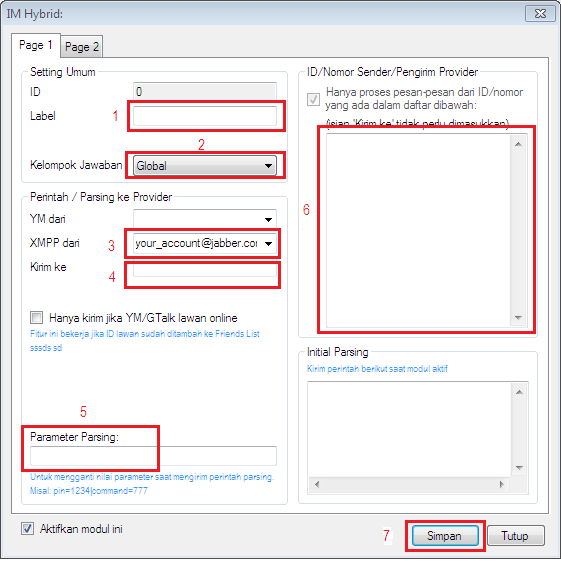
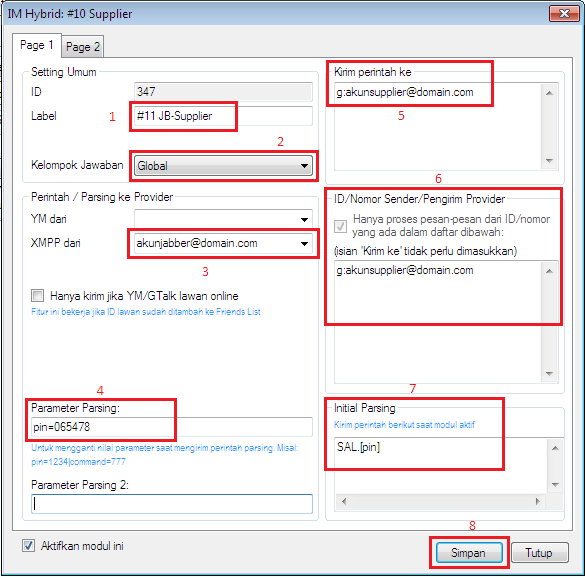
updated image and some text

Changed region(s): [[0.0, 0.0, 1.0, 1.0]]

diff --git a/setting-jabber-di-otomax.html b/setting-jabber-di-otomax.html
@@ -122,7 +122,7 @@
                             <img src="images/setting-jabber/06-tambah-im-hybrid.png" width="35%"><br><br>
                     </li>
                     <li>
-                        Pada box <b>Label</b> isi dengan nama yang Anda inginkan, misalnya: <b>#11 JB-AA-Supplier</b>; <b>Kelompok Jawaban</b> pilih kelompok jawaban supplier Anda yang dituju; <b>XMPP dari</b> pilih account jabber Anda; <b>Kirim ke</b> isi dengan account jabber supplier Anda dengan ditambah tanda <b>g:</b> didepan account (misalnya: <span style="color:red">account_supplier@domain.com</span> ditulis <span style="color:blue">g:account_supplier@domain.com</span>); <b>Parameter Parsing</b> isi dengan <b>pin=pin_anda</b> (ganti kalimat <b>pin_anda</b> dengan pin transaksi di supplier Anda); <b>ID/Nomor Sender/Pengirim Provider</b> isi dengan account jabber supplier Anda ditambah tanda <b>g:</b> di depan seperti di atas; terakhir klik tombol <b>Simpan</b>.<br><br>
+                        Pada box <b>Label</b> isi dengan nama yang Anda inginkan, misalnya: <b>#11 JB-Supplier</b>; <b>Kelompok Jawaban</b> pilih kelompok jawaban supplier Anda yang dituju; <b>XMPP dari</b> pilih account jabber Anda; <b>Parameter Parsing</b> isi dengan <b>pin=pinAnda</b> (ganti kalimat <b>pinAnda</b> dengan pin transaksi di supplier Anda); <b>Kirim Perintah ke</b> isi dengan account jabber supplier Anda dengan ditambah tanda <b>g:</b> didepan account (misalnya: <span style="color:red">akunsupplier@domain.com</span> ditulis <span style="color:blue">g:akunsupplier@domain.com</span>);  <b>ID/Nomor Sender/Pengirim Provider</b> isi dengan account jabber supplier Anda ditambah tanda <b>g:</b> di depan seperti di atas; <b>Initial Parsing</b> isi format cek saldo supplier; terakhir klik tombol <b>Simpan</b>.<br><br>
                             <img src="images/setting-jabber/07-menu-im-hybrid.PNG" width="60%"><br><br>
                     </li>
                     <li>Selanjutnya buat parsing dan penangkap jawaban (info lanjut <a href="jawaban-dari-provider.html" target="_blank">klik disini</a>).</li>
